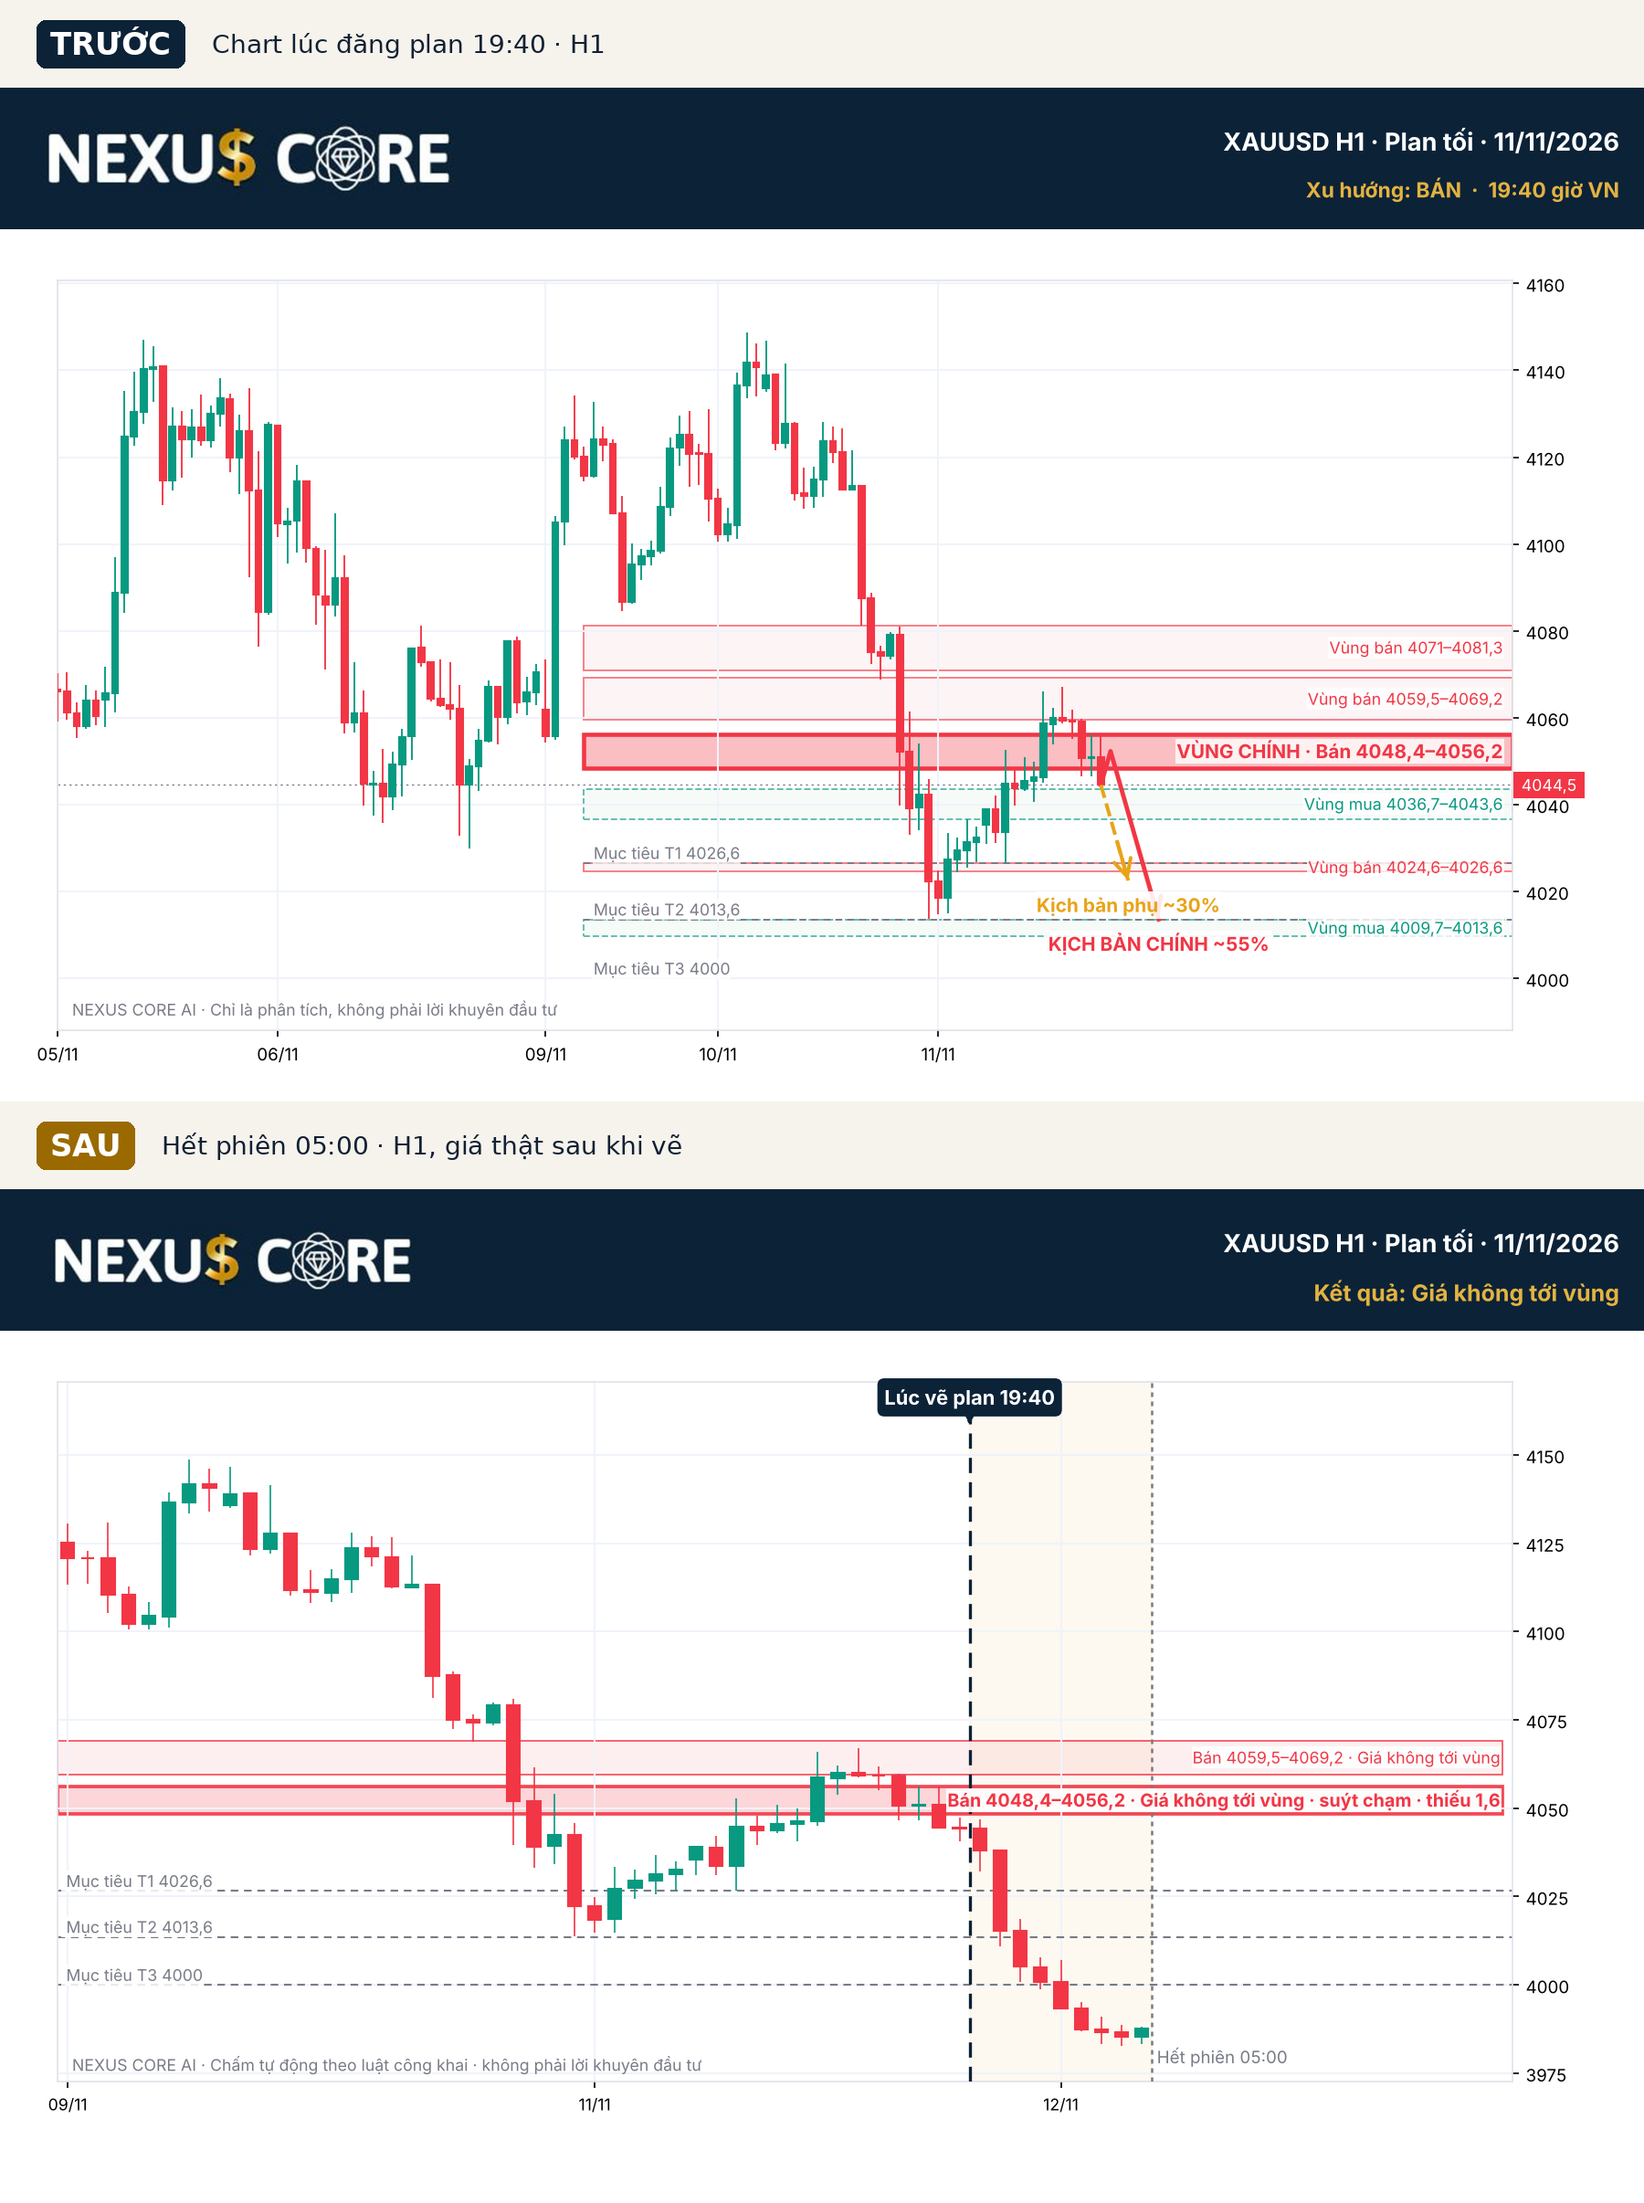
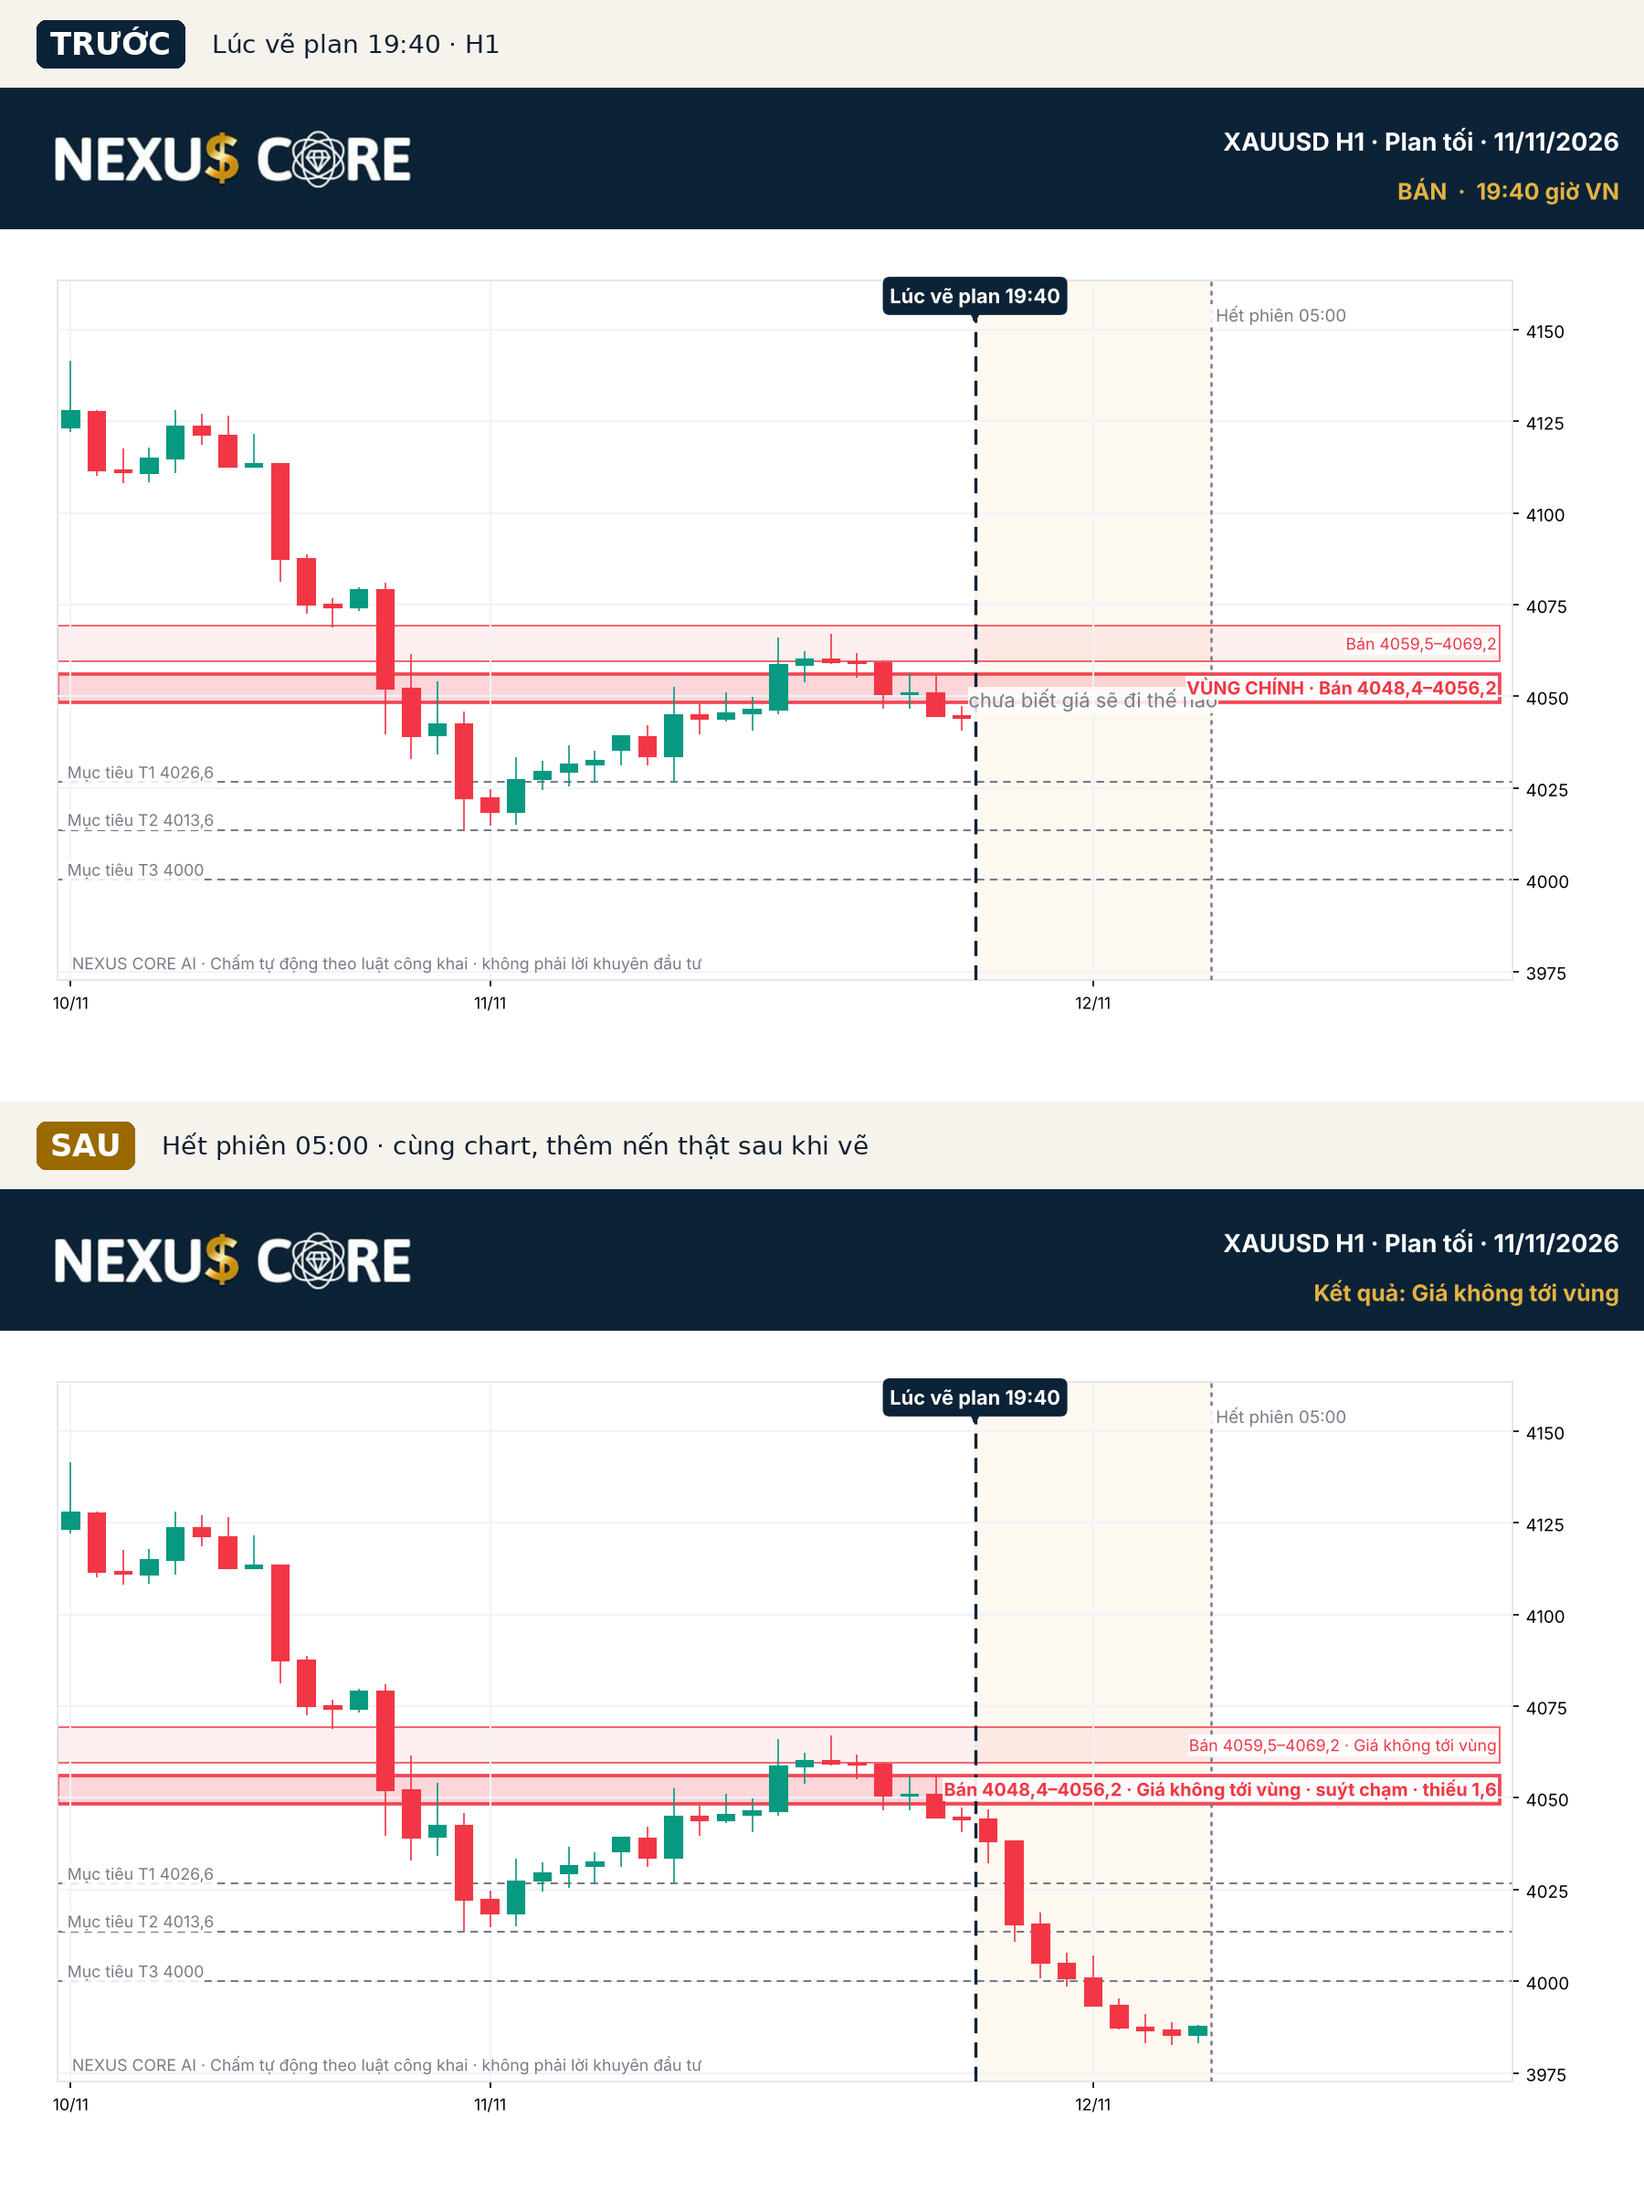
Before/after: both panels redrawn identically (H1, same window and price scale); after adds only the real candles and the result
Claude-Session: https://claude.ai/code/session_01WJYGnTcyUKc1dE92MVzdRD

diff --git a/tools/review.py b/tools/review.py
@@ -20,21 +20,21 @@ UP, DN, GRAY, TXT, NAVY, GOLD, ORG = '#089981', '#F23645', '#787B86', '#131722',
 VN = dt.timezone(dt.timedelta(hours=7))
 BAR = 900
 W = {
-    'vi': dict(before='TRƯỚC', after='SAU', b_sub='Chart lúc đăng plan {t} · H1', a_sub='Hết phiên {t} · H1, giá thật sau khi vẽ',
+    'vi': dict(before='TRƯỚC', after='SAU', b_sub='Lúc vẽ plan {t} · H1', a_sub='Hết phiên {t} · cùng chart, thêm nến thật sau khi vẽ',
                drawn='Lúc vẽ plan {t}', end='Hết phiên {t}', ed={'0700': 'Plan sáng', '1345': 'Cập nhật 13:45', '1930': 'Plan tối'},
                res={'hit': 'Chạm mục tiêu 1', 'void': 'Bị huỷ', 'expired': 'Chốt cuối phiên', 'no_touch': 'Giá không tới vùng',
                     'carried': 'Bản sau theo dõi tiếp', 'mixed': 'Có thắng có thua', 'aside': 'Đứng ngoài'},
                result='Kết quả', sell='Bán', buy='Mua', t1='Mục tiêu 1', touch='chạm vùng', ran='chạy {p} pip', near='suýt chạm · thiếu {g}',
                disc='Chấm tự động theo luật công khai · không phải lời khuyên đầu tư', tz='giờ VN', main='VÙNG CHÍNH', tgt='Mục tiêu',
-               sc_main='Kịch bản chính', sc_alt='Kịch bản phụ', unknown='chưa biết giá sẽ đi thế nào',
+               sc_main='Kịch bản chính', sc_alt='Kịch bản phụ', unknown='chưa biết giá sẽ đi thế nào', open_prev='lệnh đang mở từ bản trước',
                bias={'SELL': 'BÁN', 'BUY': 'MUA', 'TWO_WAY': '2 CHIỀU', 'STAND_ASIDE': 'ĐỨNG NGOÀI'}, lean='nghiêng'),
-    'en': dict(before='BEFORE', after='AFTER', b_sub='Chart as published {t} · H1', a_sub='Session end {t} · H1, real price after the plan',
+    'en': dict(before='BEFORE', after='AFTER', b_sub='When the plan was drawn {t} · H1', a_sub='Session end {t} · same chart plus the real candles after the plan',
                drawn='Plan drawn {t}', end='Session end {t}', ed={'0700': 'Morning plan', '1345': '13:45 update', '1930': 'Evening plan'},
                res={'hit': 'Target 1 reached', 'void': 'Invalidated', 'expired': 'Closed at session end', 'no_touch': 'Zone not reached',
                     'carried': 'Followed by the next update', 'mixed': 'Mixed', 'aside': 'Stood aside'},
                result='Result', sell='Sell', buy='Buy', t1='Target 1', touch='zone reached', ran='ran {p} pips', near='just missed · {g} short',
                disc='Graded automatically by published rules · not financial advice', tz='GMT+7', main='MAIN ZONE', tgt='Target',
-               sc_main='Main scenario', sc_alt='Alternate', unknown='price path not known yet',
+               sc_main='Main scenario', sc_alt='Alternate', unknown='price path not known yet', open_prev='open trade from the previous update',
                bias={'SELL': 'SELL', 'BUY': 'BUY', 'TWO_WAY': 'TWO-WAY', 'STAND_ASIDE': 'STAND ASIDE'}, lean='leaning'),
 }
 
@@ -85,7 +85,7 @@ def panel(p, g, bars, lang, out, mode, tf='H1'):
     zs_all = [z for z in g.get('zones') or [] if z.get('zone')]
     t_first = min([t_pub] + [ts(z['touched']) for z in zs_all if z.get('touched')])
     if tf == 'H1':
-        t0 = min(t_first - 6 * 3600, t_pub - 60 * 3600)
+        t0 = min(t_first - 6 * 3600, t_pub - 36 * 3600)
         B = [b for b in to_h1(bars) if t0 <= b['t'] and b['end'] <= t_end]
     else:
         t0 = min(t_first, t_pub - 8 * 3600) - 2 * 3600
@@ -95,7 +95,7 @@ def panel(p, g, bars, lang, out, mode, tf='H1'):
     xp, xe = xi(t_pub), n - 0.5
     shown = [b for b in B if after or b['t'] < t_pub]
     lo, hi = min(b['l'] for b in B), max(b['h'] for b in B)          # same scale in both panels
-    zs = [z for z in zs_all if after or not z.get('carried_from')]
+    zs = zs_all   # trades carried in from the previous update were already open when this plan was drawn: shown in both panels
     fig = plt.figure(figsize=(12, 7.4), dpi=150, facecolor='white')
     ax = fig.add_axes([0.035, 0.12, 0.885, 0.69])
     ax.axvspan(xp, xe, color=GOLD, alpha=0.07, zorder=0)
@@ -110,7 +110,7 @@ def panel(p, g, bars, lang, out, mode, tf='H1'):
     tg = [q['lo'] for q in p.get('targets') or [] if inview(q['lo'])]
     ys += tg
     ymin, ymax = min(ys) - 10, max(ys) + 22
-    XR = n + max(6, n * 0.32)
+    XR = n + max(5, n * 0.25)
     labels = []
     tz_ = [z for z in zs if z.get('touched')]
     best_z = next((z for z in tz_ if z.get('main') and not z.get('carried_from')), None) or max(tz_, key=lambda z: z.get('best') or 0, default=None)
@@ -132,7 +132,9 @@ def panel(p, g, bars, lang, out, mode, tf='H1'):
         if after:
             lab += f" · {T['res'].get(res, res)}" + (f" {rtxt(z.get('r'), lang)}" if z.get('r') else '')
             if z.get('near') and res == 'no_touch': lab += ' · ' + T['near'].format(g=fnum(z['near']['gap'], lang))
-        elif z.get('main'): lab = T['main'] + ' · ' + lab
+        else:
+            if z.get('main'): lab = T['main'] + ' · ' + lab
+            if z.get('carried_from'): lab += ' · ' + T['open_prev']
         labels.append(((a + c_) / 2, lab, edge, strong))
         if not after: continue
         if z.get('touched'):
@@ -158,19 +160,19 @@ def panel(p, g, bars, lang, out, mode, tf='H1'):
         ax.text(-0.3, q['lo'], f" {T['tgt']} {q.get('label', '')} {fnum(q['lo'], lang)}", color=GRAY, fontsize=8.5, va='bottom', ha='left', zorder=8,
                 bbox=dict(fc='white', ec='none', alpha=0.85, pad=0.3))
     # the plan's scenario arrows, drawn from the moment of the plan (faded in the after panel)
-    for k_, sc in enumerate((p.get('scenarios') or [])[:2] if not after else []):   # the after panel shows only what happened
+    for k_, sc in enumerate((p.get('scenarios') or [])[:2]):   # drawn identically in both panels
         pth = [float(v) for v in sc.get('path') or [] if isinstance(v, (int, float))]
         if len(pth) < 2: continue
         col = (DN if sc['side'] == 'SELL' else UP) if k_ == 0 else ORG
         cl = lambda y: max(ymin + 2, min(ymax - 2, y))
         xs_ = [xp + 1 + (xe - xp - 2) * m / len(pth) * 0.9 for m in range(len(pth))]
         ys_ = [cl(v) for v in pth]
-        ax.plot(xs_[:-1] + [xs_[-1]], ys_, color=col, lw=2.2, ls='-' if k_ == 0 else '--', alpha=0.35 if after else 1, zorder=5)
-        ax.plot([xs_[0]], [ys_[0]], marker='o', ms=6, mfc='white', mec=col, mew=1.8, alpha=0.35 if after else 1, zorder=6)
+        ax.plot(xs_[:-1] + [xs_[-1]], ys_, color=col, lw=2.2, ls='-' if k_ == 0 else '--', alpha=0.55 if after else 1, zorder=5)
+        ax.plot([xs_[0]], [ys_[0]], marker='o', ms=6, mfc='white', mec=col, mew=1.8, alpha=0.55 if after else 1, zorder=6)
         ax.annotate('', xy=(xs_[-1], ys_[-1]), xytext=(xs_[-2], ys_[-2]), zorder=6,
-                    arrowprops=dict(arrowstyle='->,head_length=0.9,head_width=0.45', color=col, lw=2.2, alpha=0.35 if after else 1, shrinkA=0, shrinkB=0))
+                    arrowprops=dict(arrowstyle='->,head_length=0.9,head_width=0.45', color=col, lw=2.2, alpha=0.55 if after else 1, shrinkA=0, shrinkB=0))
         ax.text(xs_[-1] + 0.6, ys_[-1], f" {T['sc_main'] if k_ == 0 else T['sc_alt']} ~{sc.get('prob', '')}%", color=col, fontsize=9,
-                fontweight='bold', va='center', alpha=0.5 if after else 1, zorder=8)
+                fontweight='bold', va='center', alpha=0.6 if after else 1, zorder=8)
     ax.set_ylim(ymin, ymax); ax.set_xlim(-0.5, XR)
     gap = (ymax - ymin) * 0.045
     labels.sort(key=lambda q: q[0])
@@ -184,14 +186,16 @@ def panel(p, g, bars, lang, out, mode, tf='H1'):
         ax.text(XR - 0.6, y, lab, ha='right', va='center', fontsize=9.5 if strong else 8.5, color=col,
                 fontweight='bold' if strong else 'normal', zorder=9, bbox=dict(fc='white', ec='none', alpha=0.92, pad=0.5))
     if not after:
-        ax.text((xp + xe) / 2, ymin + (ymax - ymin) * 0.5, T['unknown'], ha='center', va='center', fontsize=12, color=GRAY, alpha=0.8, zorder=2)
+        ax.text((xp + xe) / 2, ymin + (ymax - ymin) * 0.4, T['unknown'], ha='center', va='center', fontsize=10.5, color=GRAY, zorder=8,
+                bbox=dict(fc='white', ec='none', alpha=0.85, pad=0.4))
     ax.axvline(xp, color=NAVY, lw=1.6, ls=(0, (5, 3)), zorder=4)
     ax.annotate(T['drawn'].format(t=hm(g['window'][0])), xy=(xp, ymax - (ymax - ymin) * 0.06), xytext=(xp, ymax - (ymax - ymin) * 0.005),
                 ha='center', va='top', fontsize=10.5, fontweight='bold', color='white', zorder=10,
                 bbox=dict(boxstyle='round,pad=0.35', fc=NAVY, ec='none'),
                 arrowprops=dict(arrowstyle='-|>,head_length=0.7,head_width=0.4', color=NAVY, lw=2))
     ax.axvline(xe, color=GRAY, lw=1.2, ls=(0, (2, 2)), zorder=4)
-    ax.text(xe, ymin + (ymax - ymin) * 0.02, f" {T['end'].format(t=hm(g['window'][1]))}", color=GRAY, fontsize=9, ha='left', va='bottom', zorder=8)
+    ax.text(xe, ymax - (ymax - ymin) * 0.05, f" {T['end'].format(t=hm(g['window'][1]))}", color=GRAY, fontsize=9, ha='left', va='center', zorder=8,
+            bbox=dict(fc='white', ec='none', alpha=0.85, pad=0.3))
     ax.yaxis.tick_right(); ax.grid(color='#F0F3FA', lw=1)
     for s_ in ax.spines.values(): s_.set_color('#E0E3EB')
     tk, tl = [], []
@@ -271,9 +275,9 @@ def main():
             before = os.path.join(ROOT, 'data', 'charts', f'{k}-{lang}.png')      # the chart exactly as published (H1)
             out = os.path.join(ROOT, 'data', 'charts', f'{k}-{lang}-review.png')
             if not os.path.exists(before) or (os.path.exists(out) and not redo): continue
-            ta = out + '.after.png'
-            panel(p, g, bars, lang, ta, 'after', 'H1')
-            compose(before, ta, g, lang, out); os.remove(ta)
+            tb, ta = out + '.before.png', out + '.after.png'
+            panel(p, g, bars, lang, tb, 'before', 'H1'); panel(p, g, bars, lang, ta, 'after', 'H1')   # same window, same scale
+            compose(tb, ta, g, lang, out); os.remove(tb); os.remove(ta)
             done.append(os.path.basename(out))
     print('review:', ', '.join(done) if done else 'nothing new')
 
